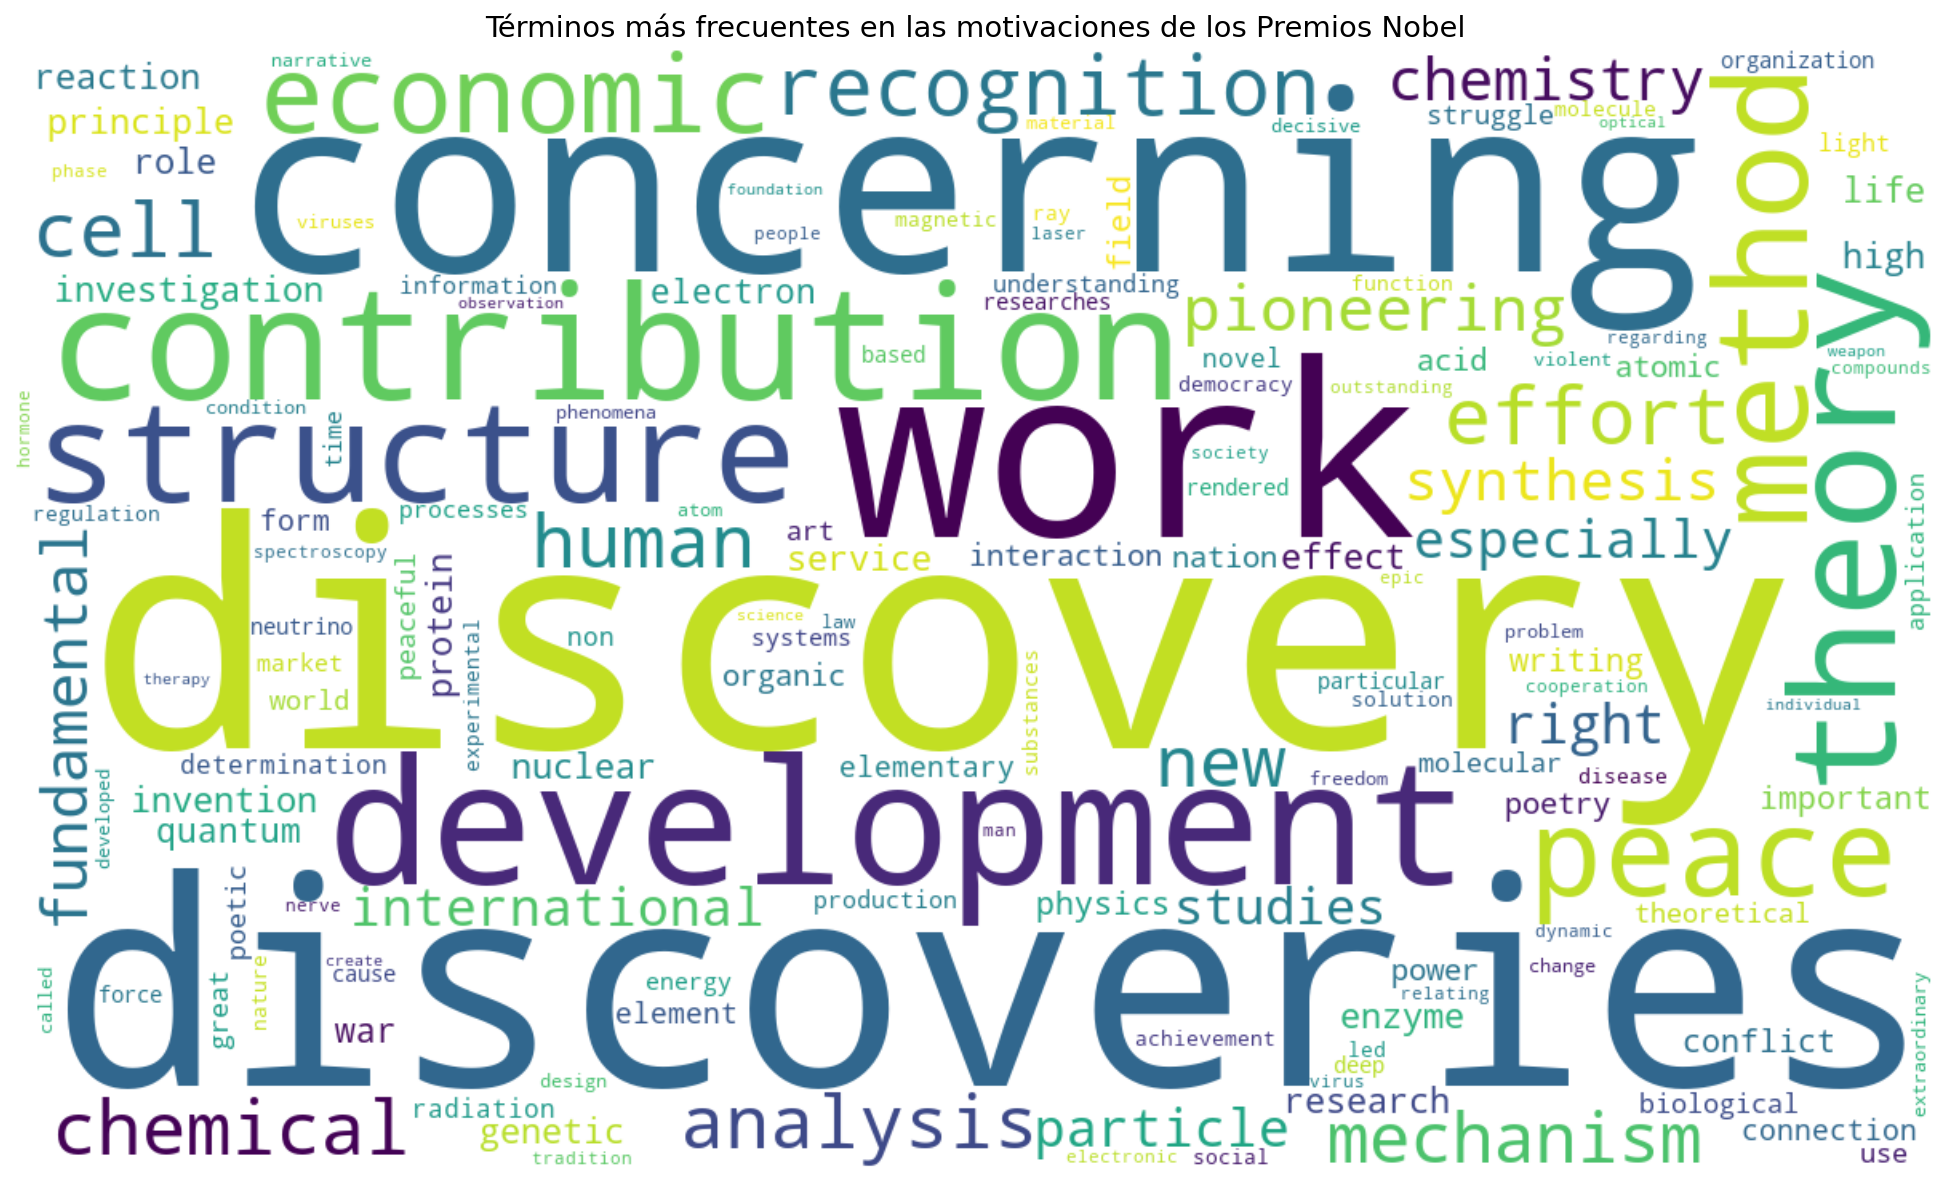
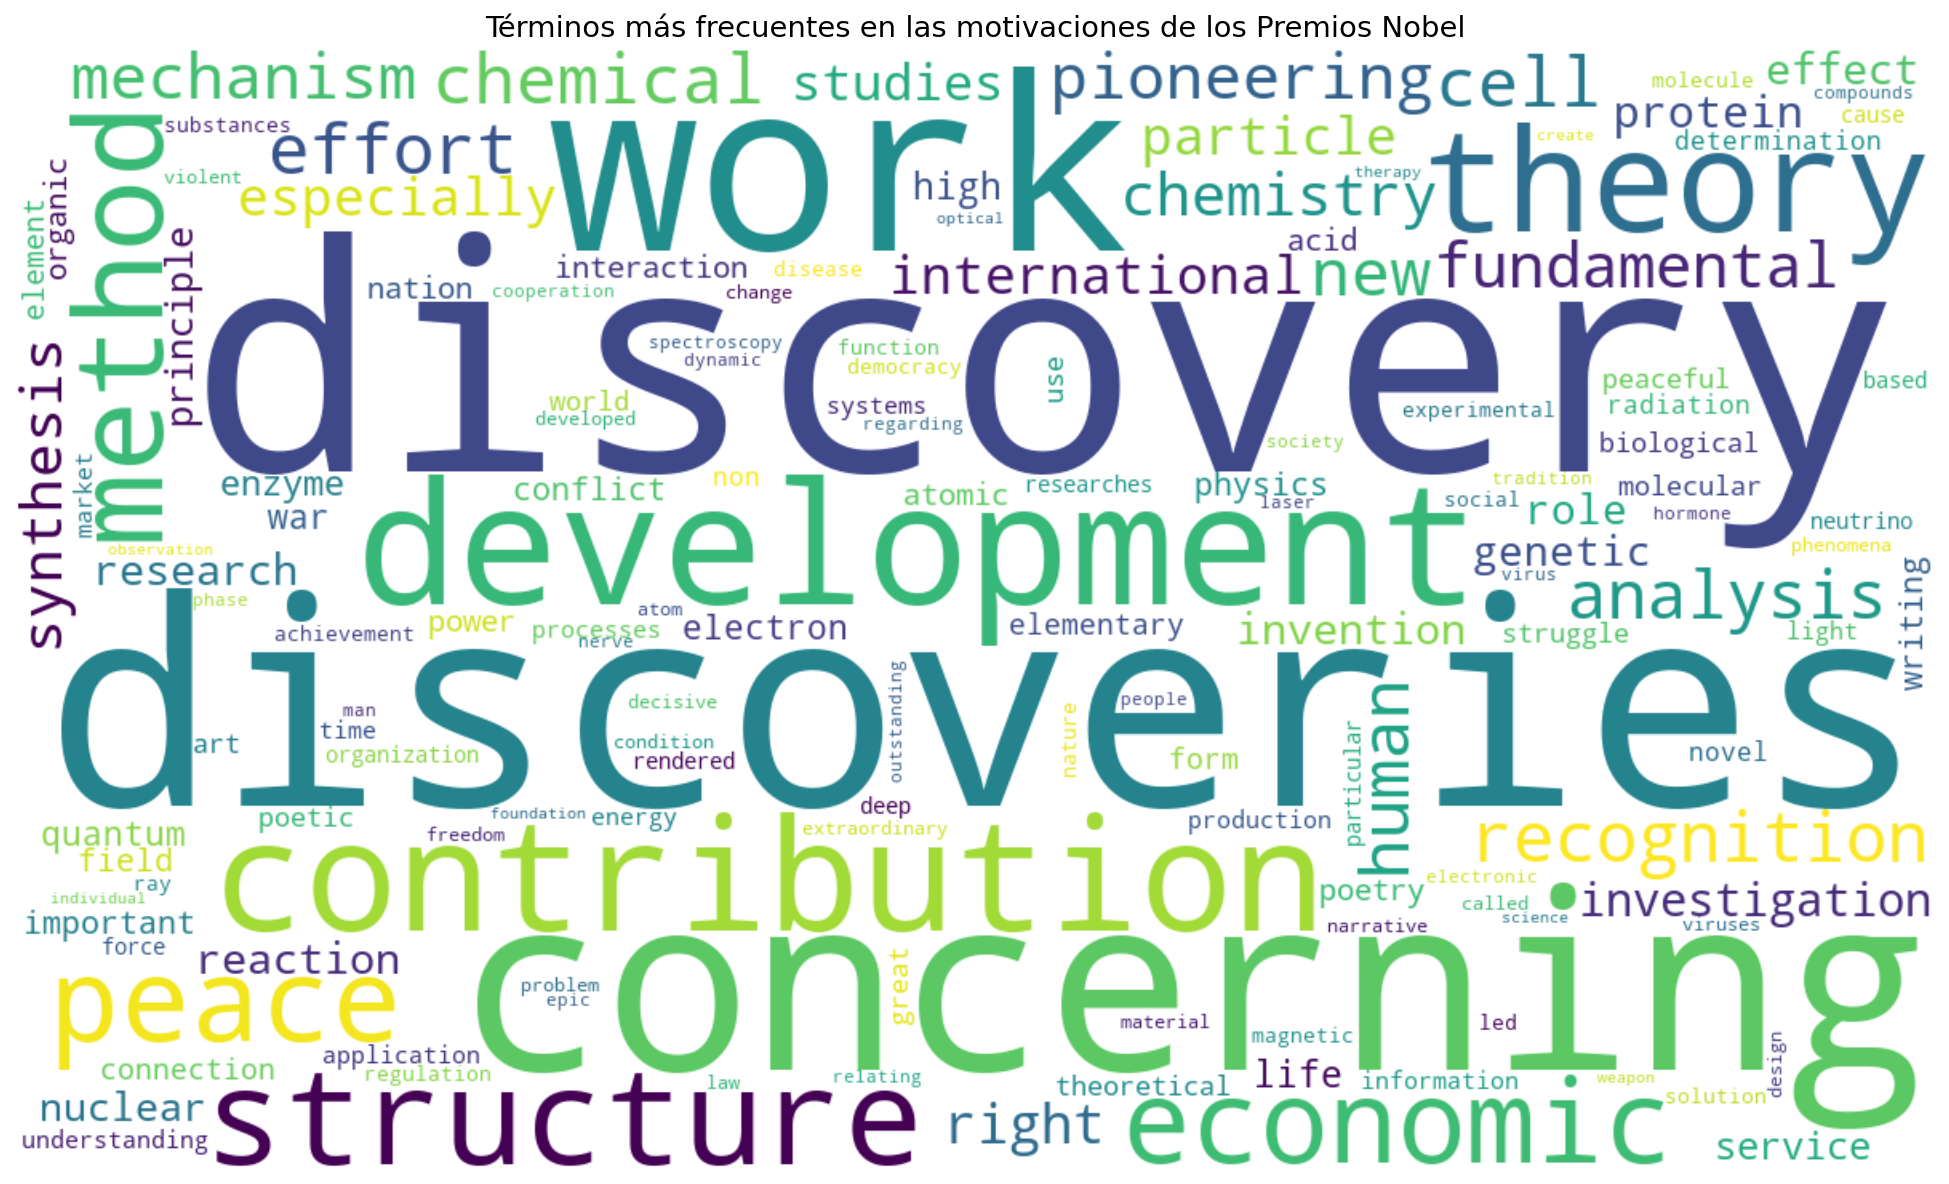
nui

diff --git a/app.py b/app.py
@@ -27,7 +27,7 @@ def limpiar_texto(texto):
 
 
 nobel = pd.read_csv(
-    "https://raw.githubusercontent.com/SalvadorCM786/ExamenModuloIV/refs/heads/main/nobels_limpio.csv"
+    "https://raw.githubusercontent.com/SalvadorCM786/ExamenModuloIV/refs/heads/main/nobel_consolidado.csv"
 )
 # .dropna() no siempre atrapa todos los casos "vacíos" (celdas con solo espacios, o el string
 # literal "nan"), así que se convierte todo a texto primero y luego se filtra por contenido real.
